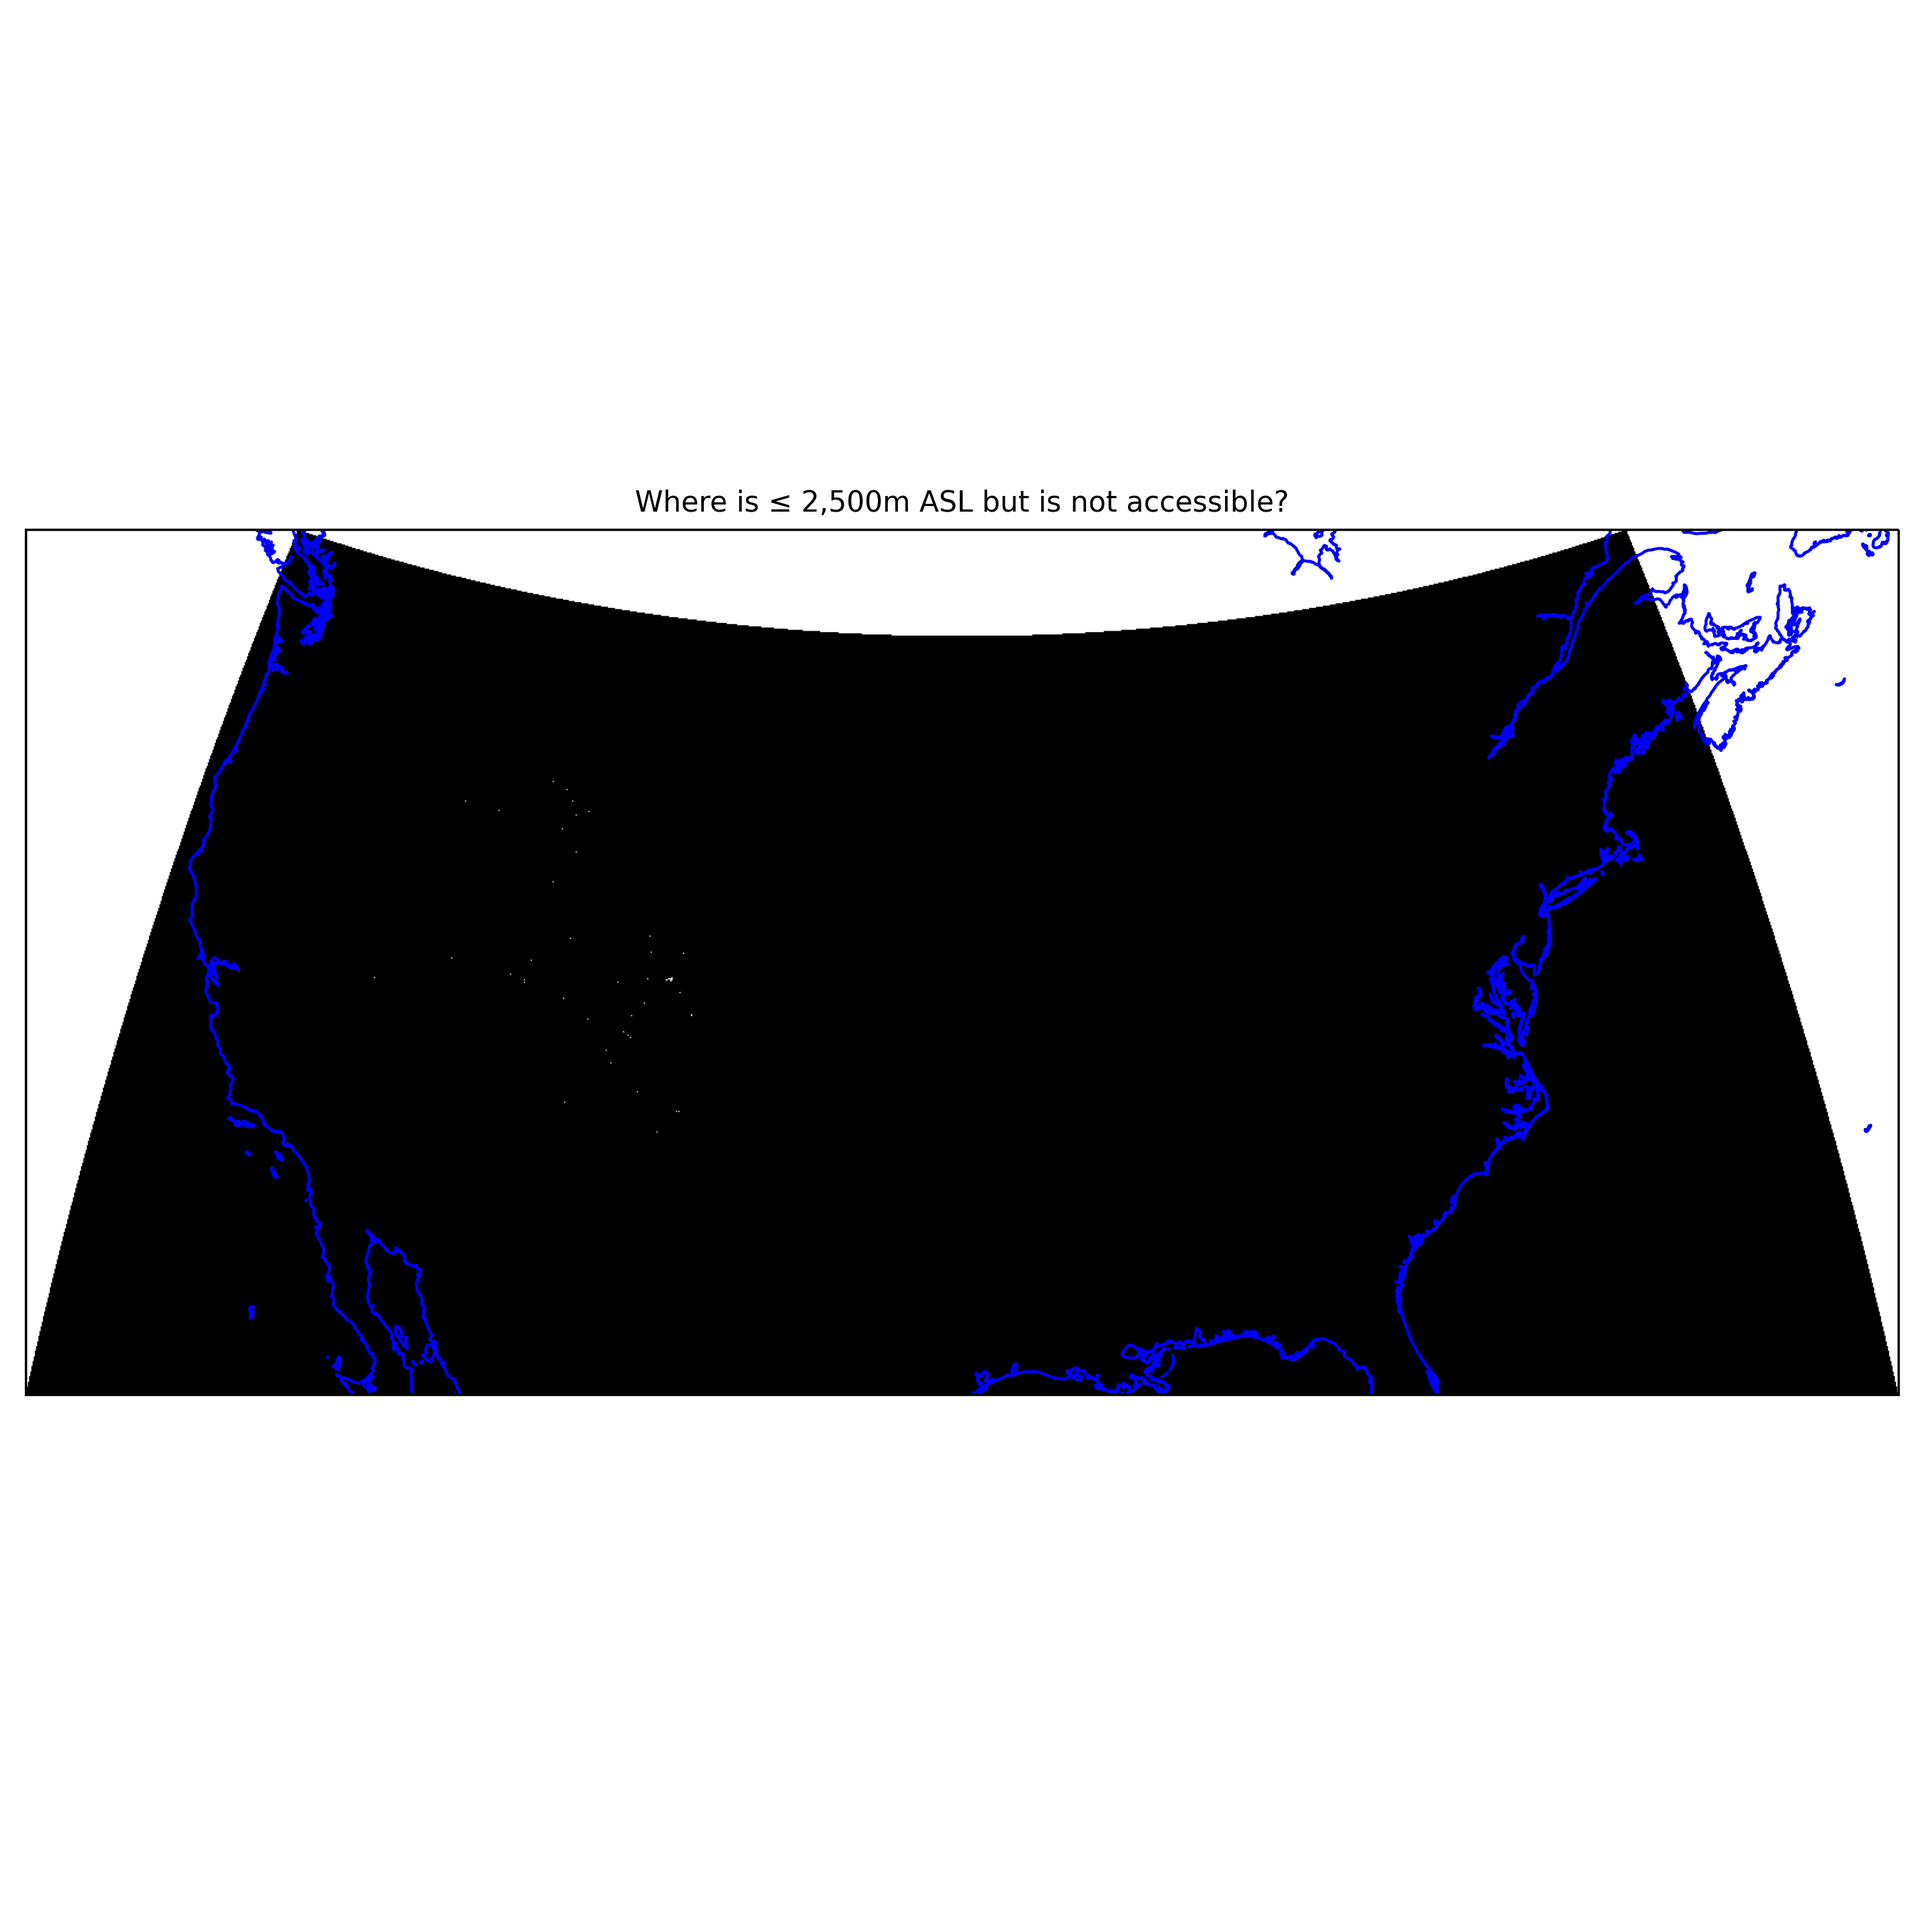
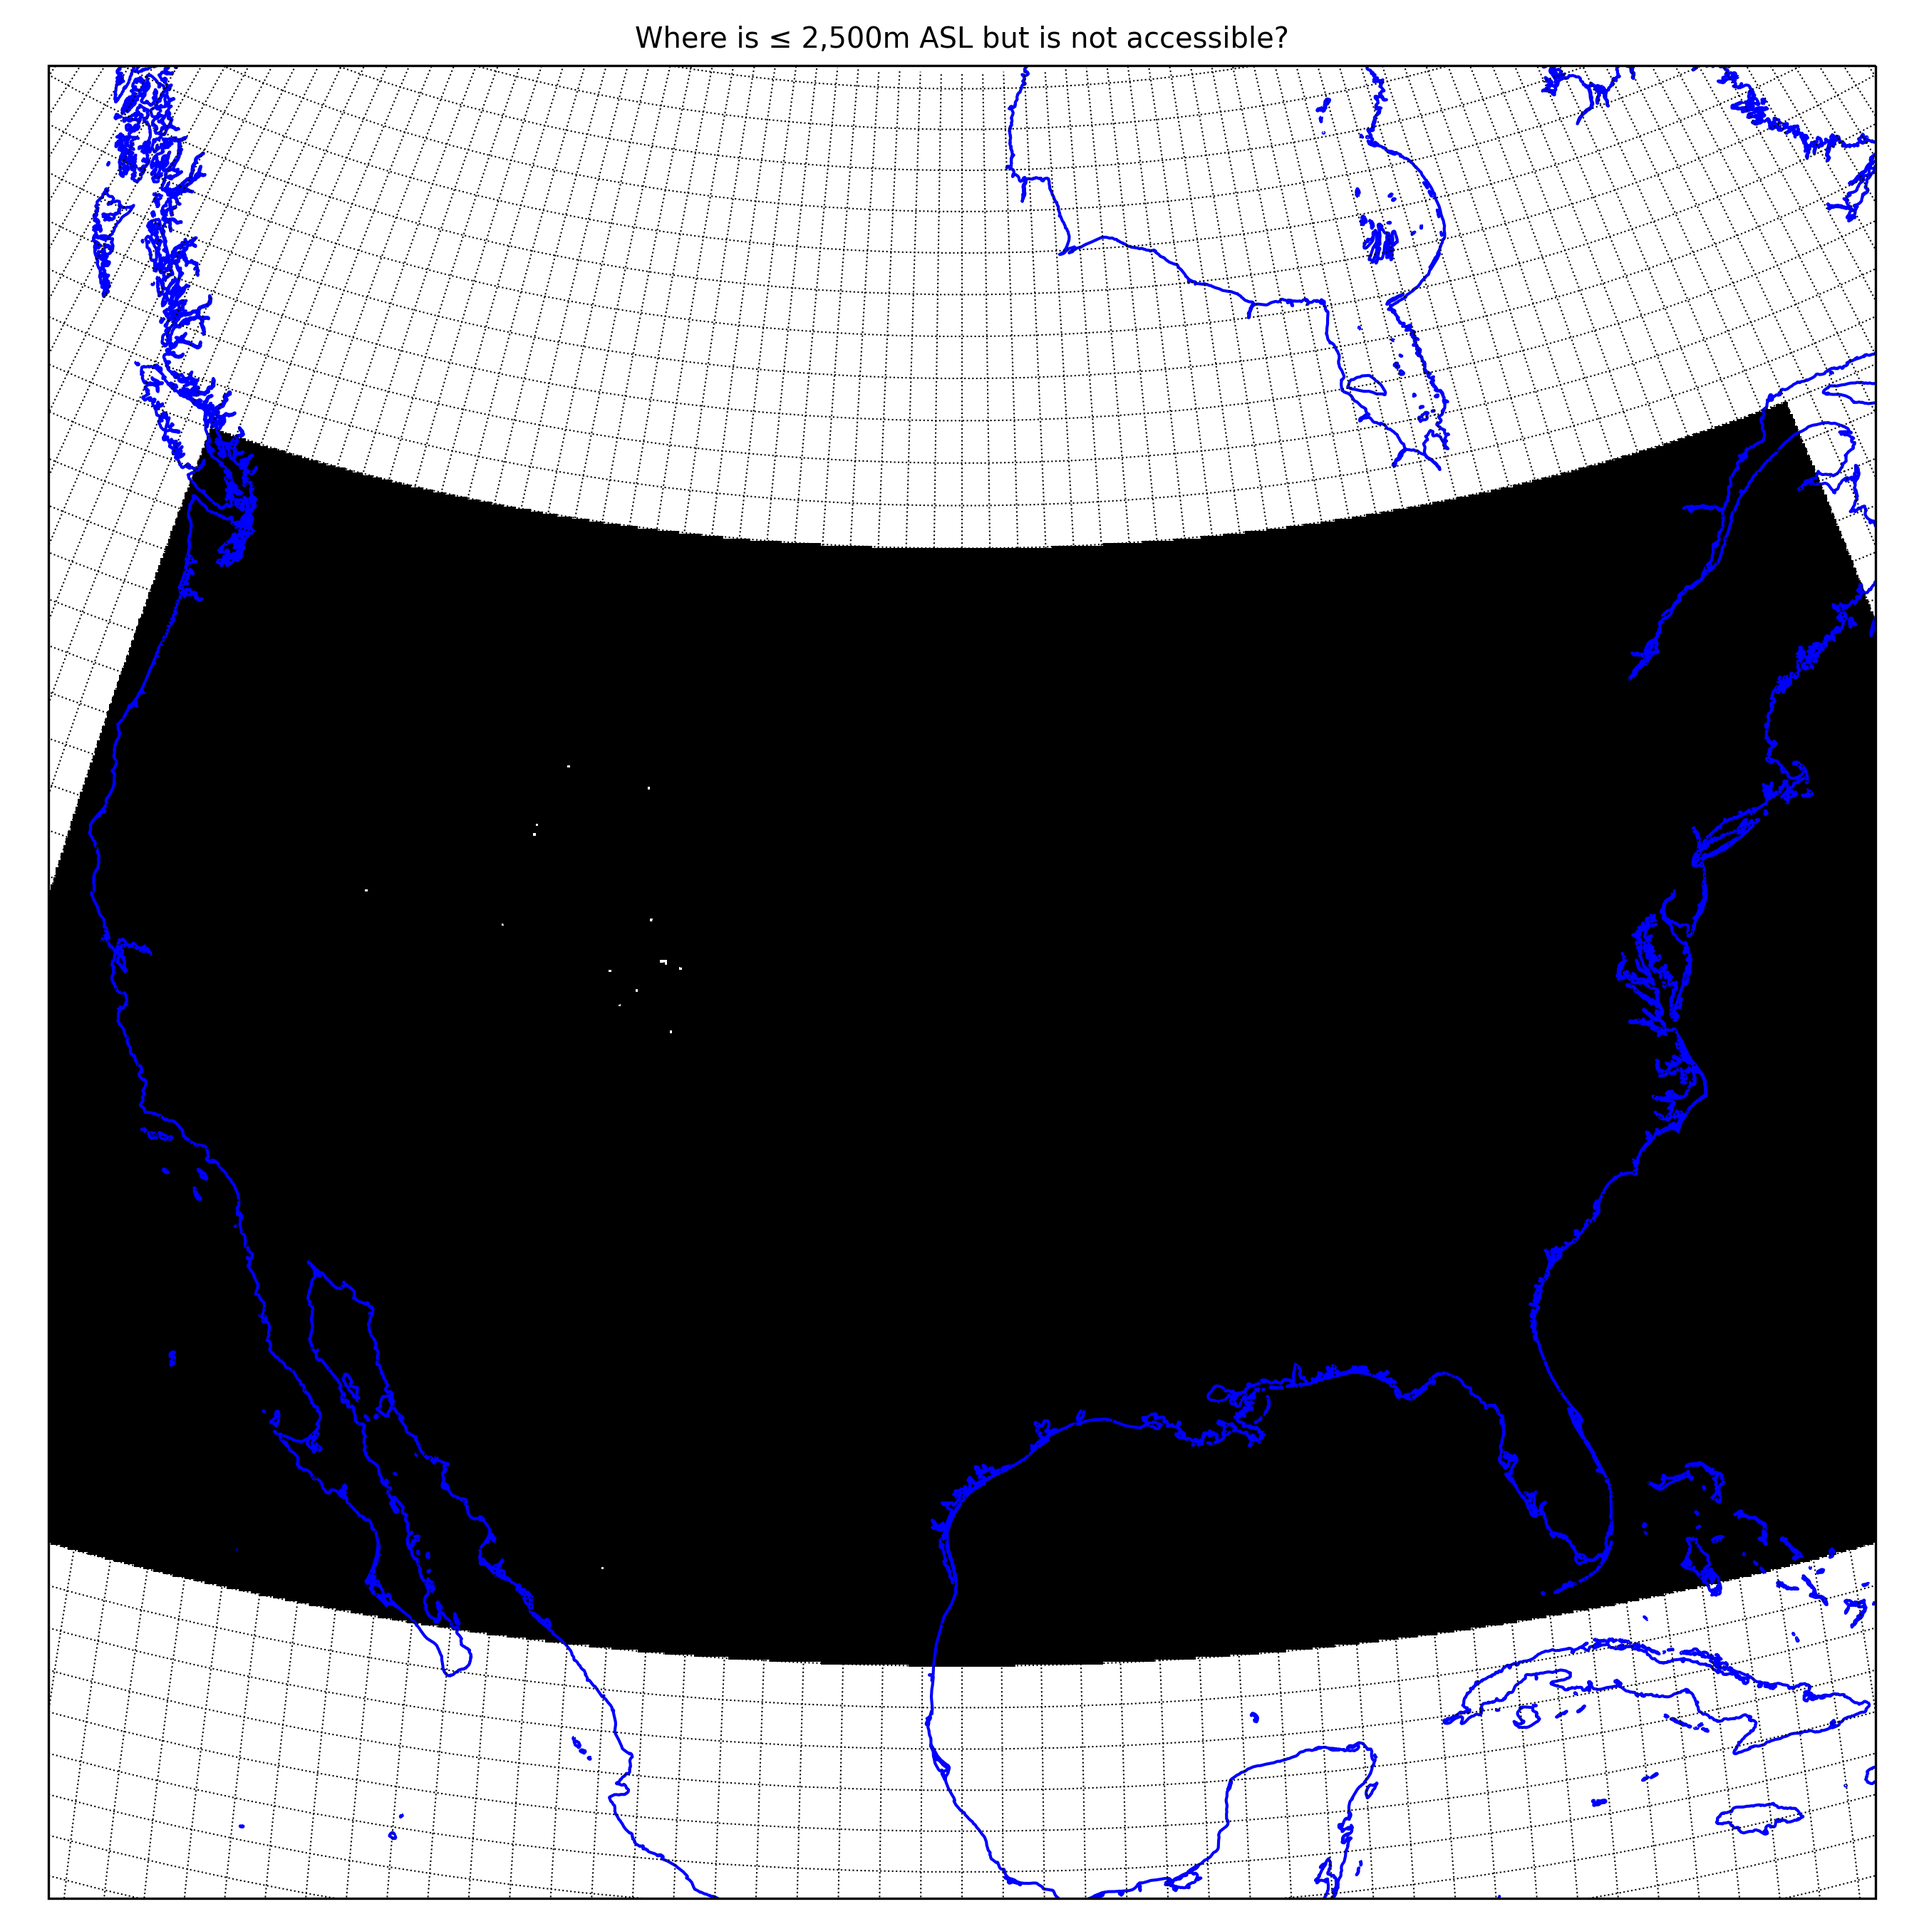
use new helper function

diff --git a/makePlots.py b/makePlots.py
@@ -40,21 +40,21 @@ if __name__ == "__main__":
 
     # Set extents of the regions ...
     extCL = [
-         -76.0, # left
-         -66.0, # right
-         -54.0, # bottom
-         -17.0, # top
+         -74.0, # left
+         -63.0, # right
+         -29.0, # bottom
+         -18.0, # top
     ]                                                                           # [°]
     extCO = [
         -110.0, # left
-        -102.0, # right
+        -103.0, # right
          +36.0, # bottom
          +42.0, # top
     ]                                                                           # [°]
     extUS = [
         -125.0, # left
          -66.0, # right
-         +25.0, # bottom
+         +24.0, # bottom
          +50.0, # top
     ]                                                                           # [°]
 
@@ -74,11 +74,11 @@ if __name__ == "__main__":
             fg = matplotlib.pyplot.figure(figsize = (9, 9))
 
             # Create axis ...
-            ax = fg.add_subplot(
-                projection = cartopy.crs.Orthographic(
-                    central_longitude = 0.5 * (extCL[0] + extCL[1]),
-                     central_latitude = 0.5 * (extCL[2] + extCL[3]),
-                )
+            ax = pyguymer3.geo.add_top_down_axis(
+                fg,
+                -60.0,
+                -35.0,
+                2000.0e3,
             )
 
             # Configure axis ...
@@ -87,13 +87,20 @@ if __name__ == "__main__":
                      color = "blue",
                  linewidth = 1.0,
             )
-            ax.set_extent(extCL)
             ax.set_title("Where is ≤ 2,500m ASL but is not accessible?")
             pyguymer3.geo.add_map_background(
                 ax,
                     extent = extCL,
                       name = field,
                 resolution = field,
+            )
+            pyguymer3.geo.add_horizontal_gridlines(
+                ax,
+                locs = range(-90, +91, 1),
+            )
+            pyguymer3.geo.add_vertical_gridlines(
+                ax,
+                locs = range(-180, +181, 1),
             )
 
             # Configure figure ...
@@ -117,11 +124,11 @@ if __name__ == "__main__":
             fg = matplotlib.pyplot.figure(figsize = (9, 9))
 
             # Create axis ...
-            ax = fg.add_subplot(
-                projection = cartopy.crs.Orthographic(
-                    central_longitude = 0.5 * (extCO[0] + extCO[1]),
-                     central_latitude = 0.5 * (extCO[2] + extCO[3]),
-                )
+            ax = pyguymer3.geo.add_top_down_axis(
+                fg,
+                -106.25,
+                 +39.0,
+                350.0e3,
             )
 
             # Configure axis ...
@@ -130,13 +137,20 @@ if __name__ == "__main__":
                      color = "blue",
                  linewidth = 1.0,
             )
-            ax.set_extent(extCO)
             ax.set_title("Where is ≤ 2,500m ASL but is not accessible?")
             pyguymer3.geo.add_map_background(
                 ax,
                     extent = extCO,
                       name = field,
                 resolution = field,
+            )
+            pyguymer3.geo.add_horizontal_gridlines(
+                ax,
+                locs = range(-90, +91, 1),
+            )
+            pyguymer3.geo.add_vertical_gridlines(
+                ax,
+                locs = range(-180, +181, 1),
             )
 
             # Find file containing all the populated places shapes ...
@@ -196,11 +210,11 @@ if __name__ == "__main__":
             fg = matplotlib.pyplot.figure(figsize = (9, 9))
 
             # Create axis ...
-            ax = fg.add_subplot(
-                projection = cartopy.crs.Orthographic(
-                    central_longitude = 0.5 * (extUS[0] + extUS[1]),
-                     central_latitude = 0.5 * (extUS[2] + extUS[3]),
-                )
+            ax = pyguymer3.geo.add_top_down_axis(
+                fg,
+                -97.0,
+                +40.0,
+                2400.0e3,
             )
 
             # Configure axis ...
@@ -209,13 +223,20 @@ if __name__ == "__main__":
                      color = "blue",
                  linewidth = 1.0,
             )
-            ax.set_extent(extUS)
             ax.set_title("Where is ≤ 2,500m ASL but is not accessible?")
             pyguymer3.geo.add_map_background(
                 ax,
                     extent = extUS,
                       name = field,
                 resolution = field,
+            )
+            pyguymer3.geo.add_horizontal_gridlines(
+                ax,
+                locs = range(-90, +91, 1),
+            )
+            pyguymer3.geo.add_vertical_gridlines(
+                ax,
+                locs = range(-180, +181, 1),
             )
 
             # Configure figure ...
